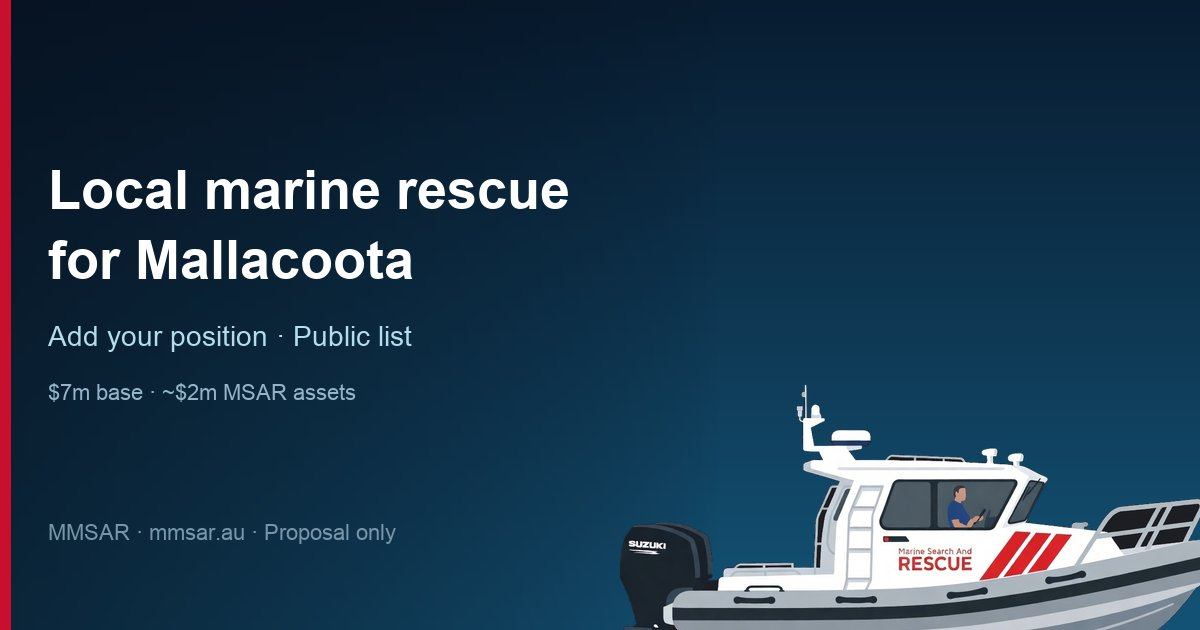
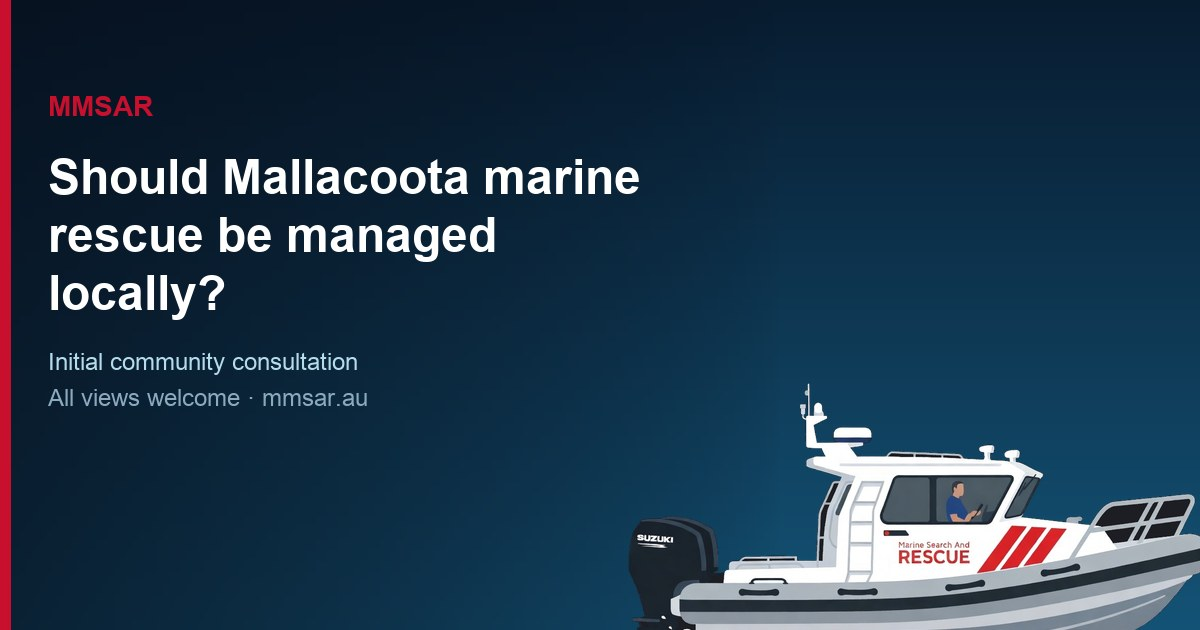
Update og-card image text to match share title question

diff --git a/index.html b/index.html
@@ -30,10 +30,10 @@
   <meta property="og:url" content="https://mmsar.au/">
   <meta property="og:title" content="Should Mallacoota marine rescue be managed locally?">
   <meta property="og:description" content="Mallacoota has a modern shared emergency base, substantial marine rescue assets and experienced local boat operators. An initial community consultation — all views welcome, including support for the current arrangements.">
-  <meta property="og:image" content="https://mmsar.au/images/og-card.jpg">
+  <meta property="og:image" content="https://mmsar.au/images/og-card.jpg?v=2">
   <meta property="og:image:width" content="1200">
   <meta property="og:image:height" content="630">
-  <meta property="og:image:alt" content="Local marine rescue for Mallacoota — MMSAR proposal">
+  <meta property="og:image:alt" content="Should Mallacoota marine rescue be managed locally?">
   <meta property="og:site_name" content="MMSAR">
   <meta property="og:locale" content="en_AU">
 
@@ -41,7 +41,7 @@
   <meta name="twitter:card" content="summary_large_image">
   <meta name="twitter:title" content="Should Mallacoota marine rescue be managed locally?">
   <meta name="twitter:description" content="Mallacoota has a modern shared emergency base, substantial marine rescue assets and experienced local boat operators. An initial community consultation — all views welcome, including support for the current arrangements.">
-  <meta name="twitter:image" content="https://mmsar.au/images/og-card.jpg">
+  <meta name="twitter:image" content="https://mmsar.au/images/og-card.jpg?v=2">
 
   <link rel="icon" href="favicon.ico" sizes="any">
   <link rel="icon" type="image/png" href="images/apple-touch-icon.png">
@@ -104,7 +104,7 @@
         "inLanguage": "en-AU",
         "primaryImageOfPage": {
           "@type": "ImageObject",
-          "url": "https://mmsar.au/images/og-card.jpg"
+          "url": "https://mmsar.au/images/og-card.jpg?v=2"
         }
       },
       {